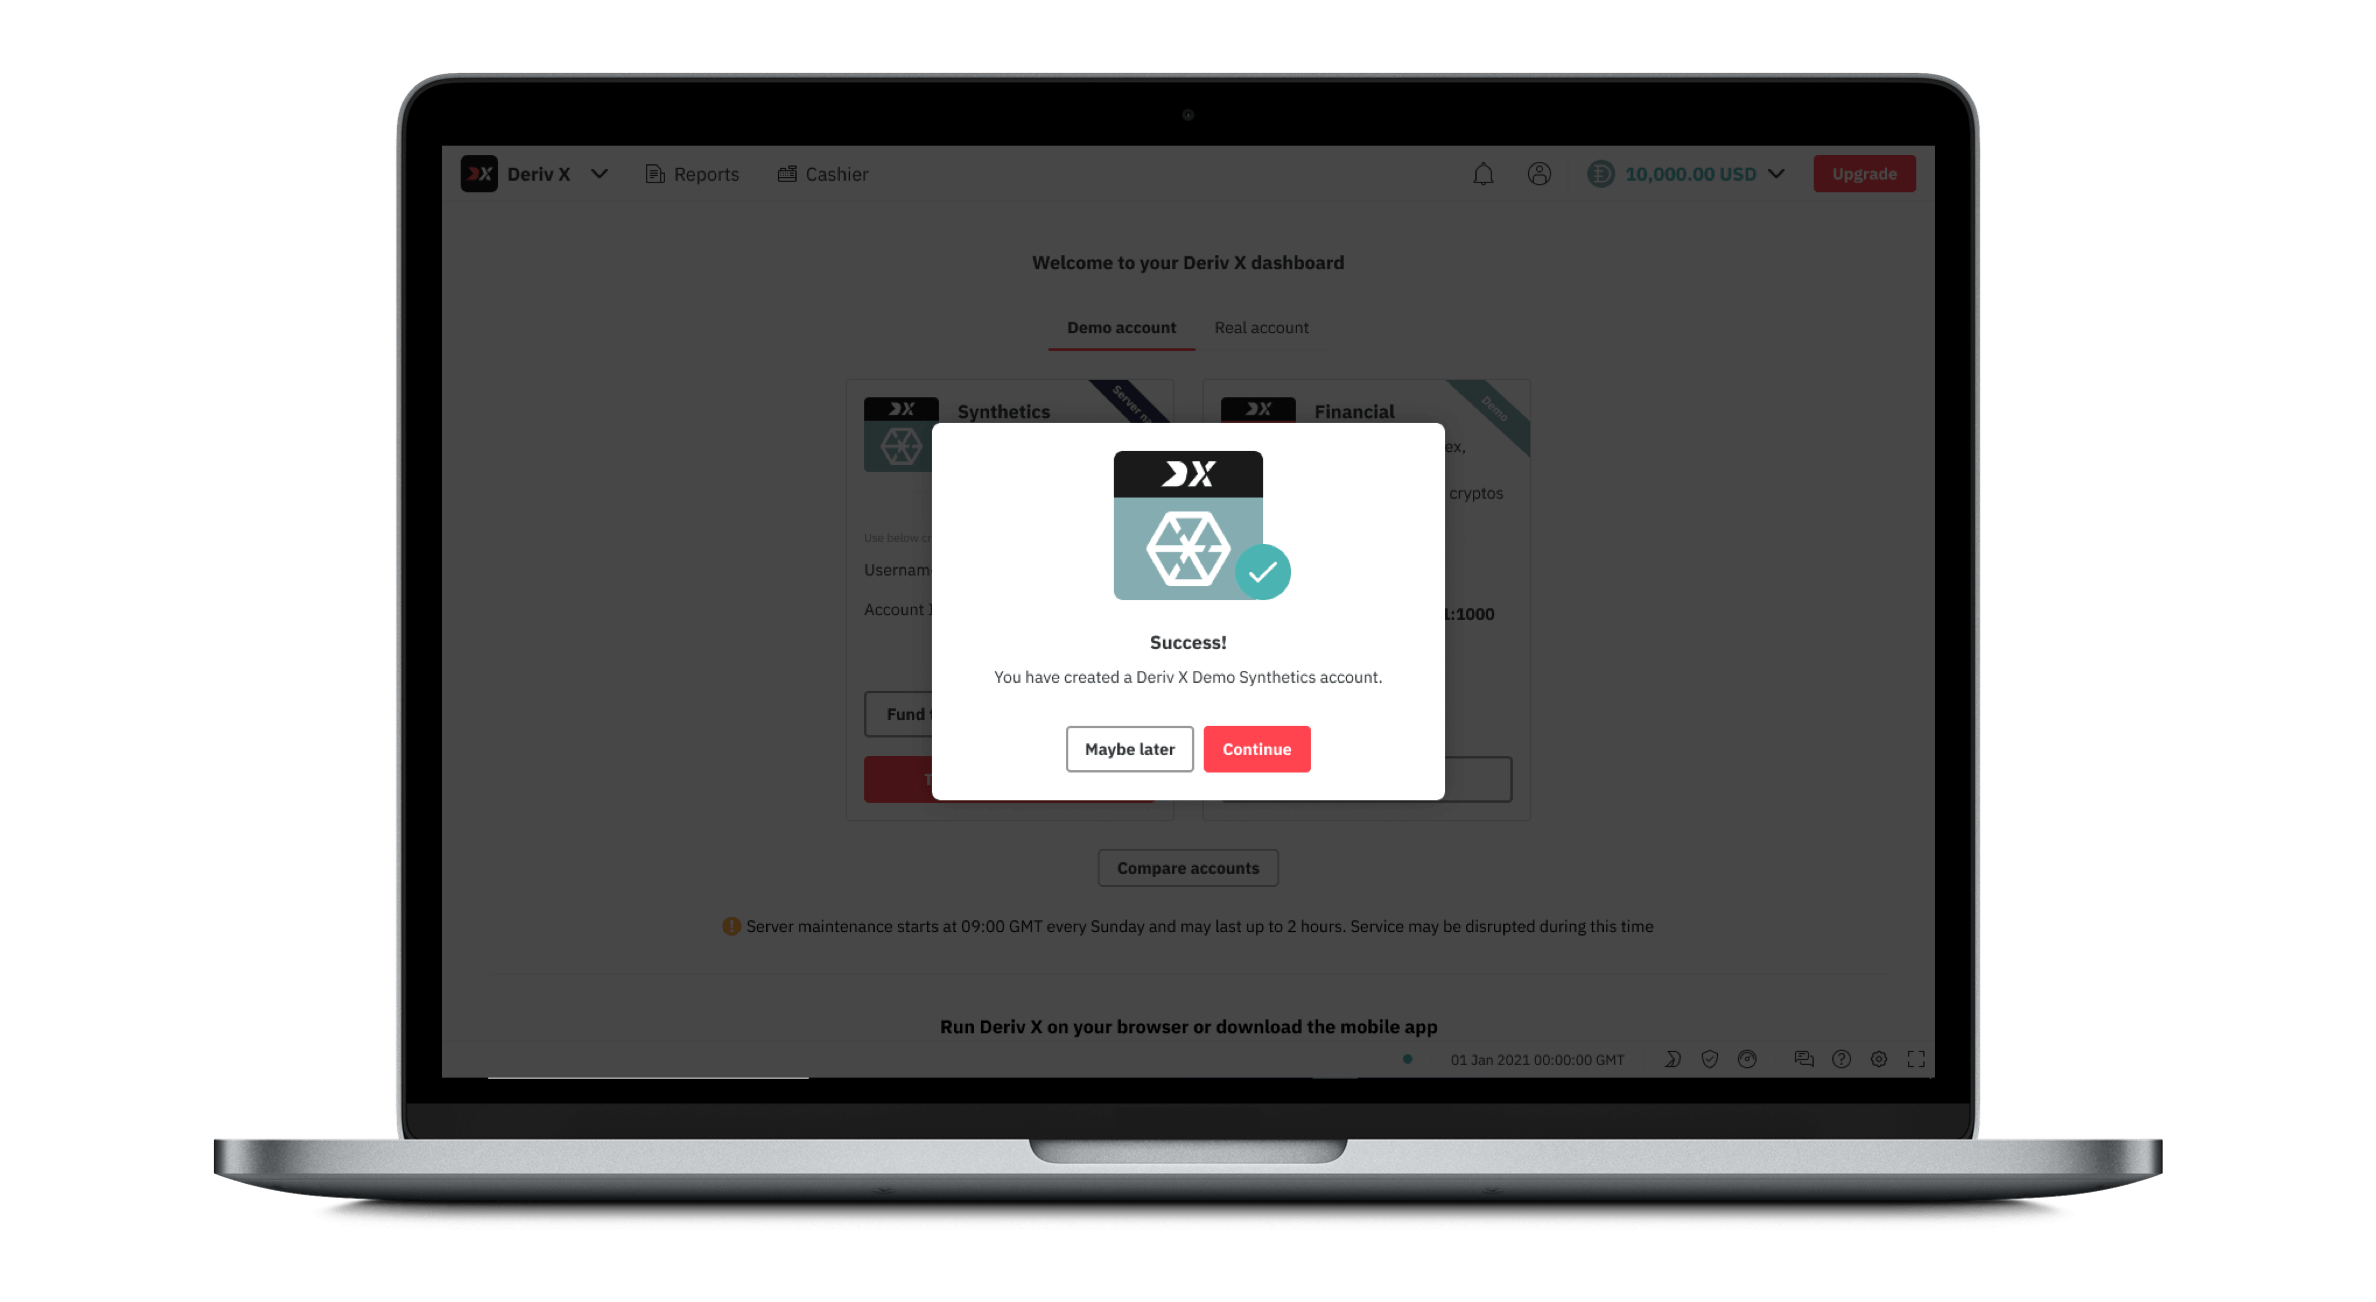
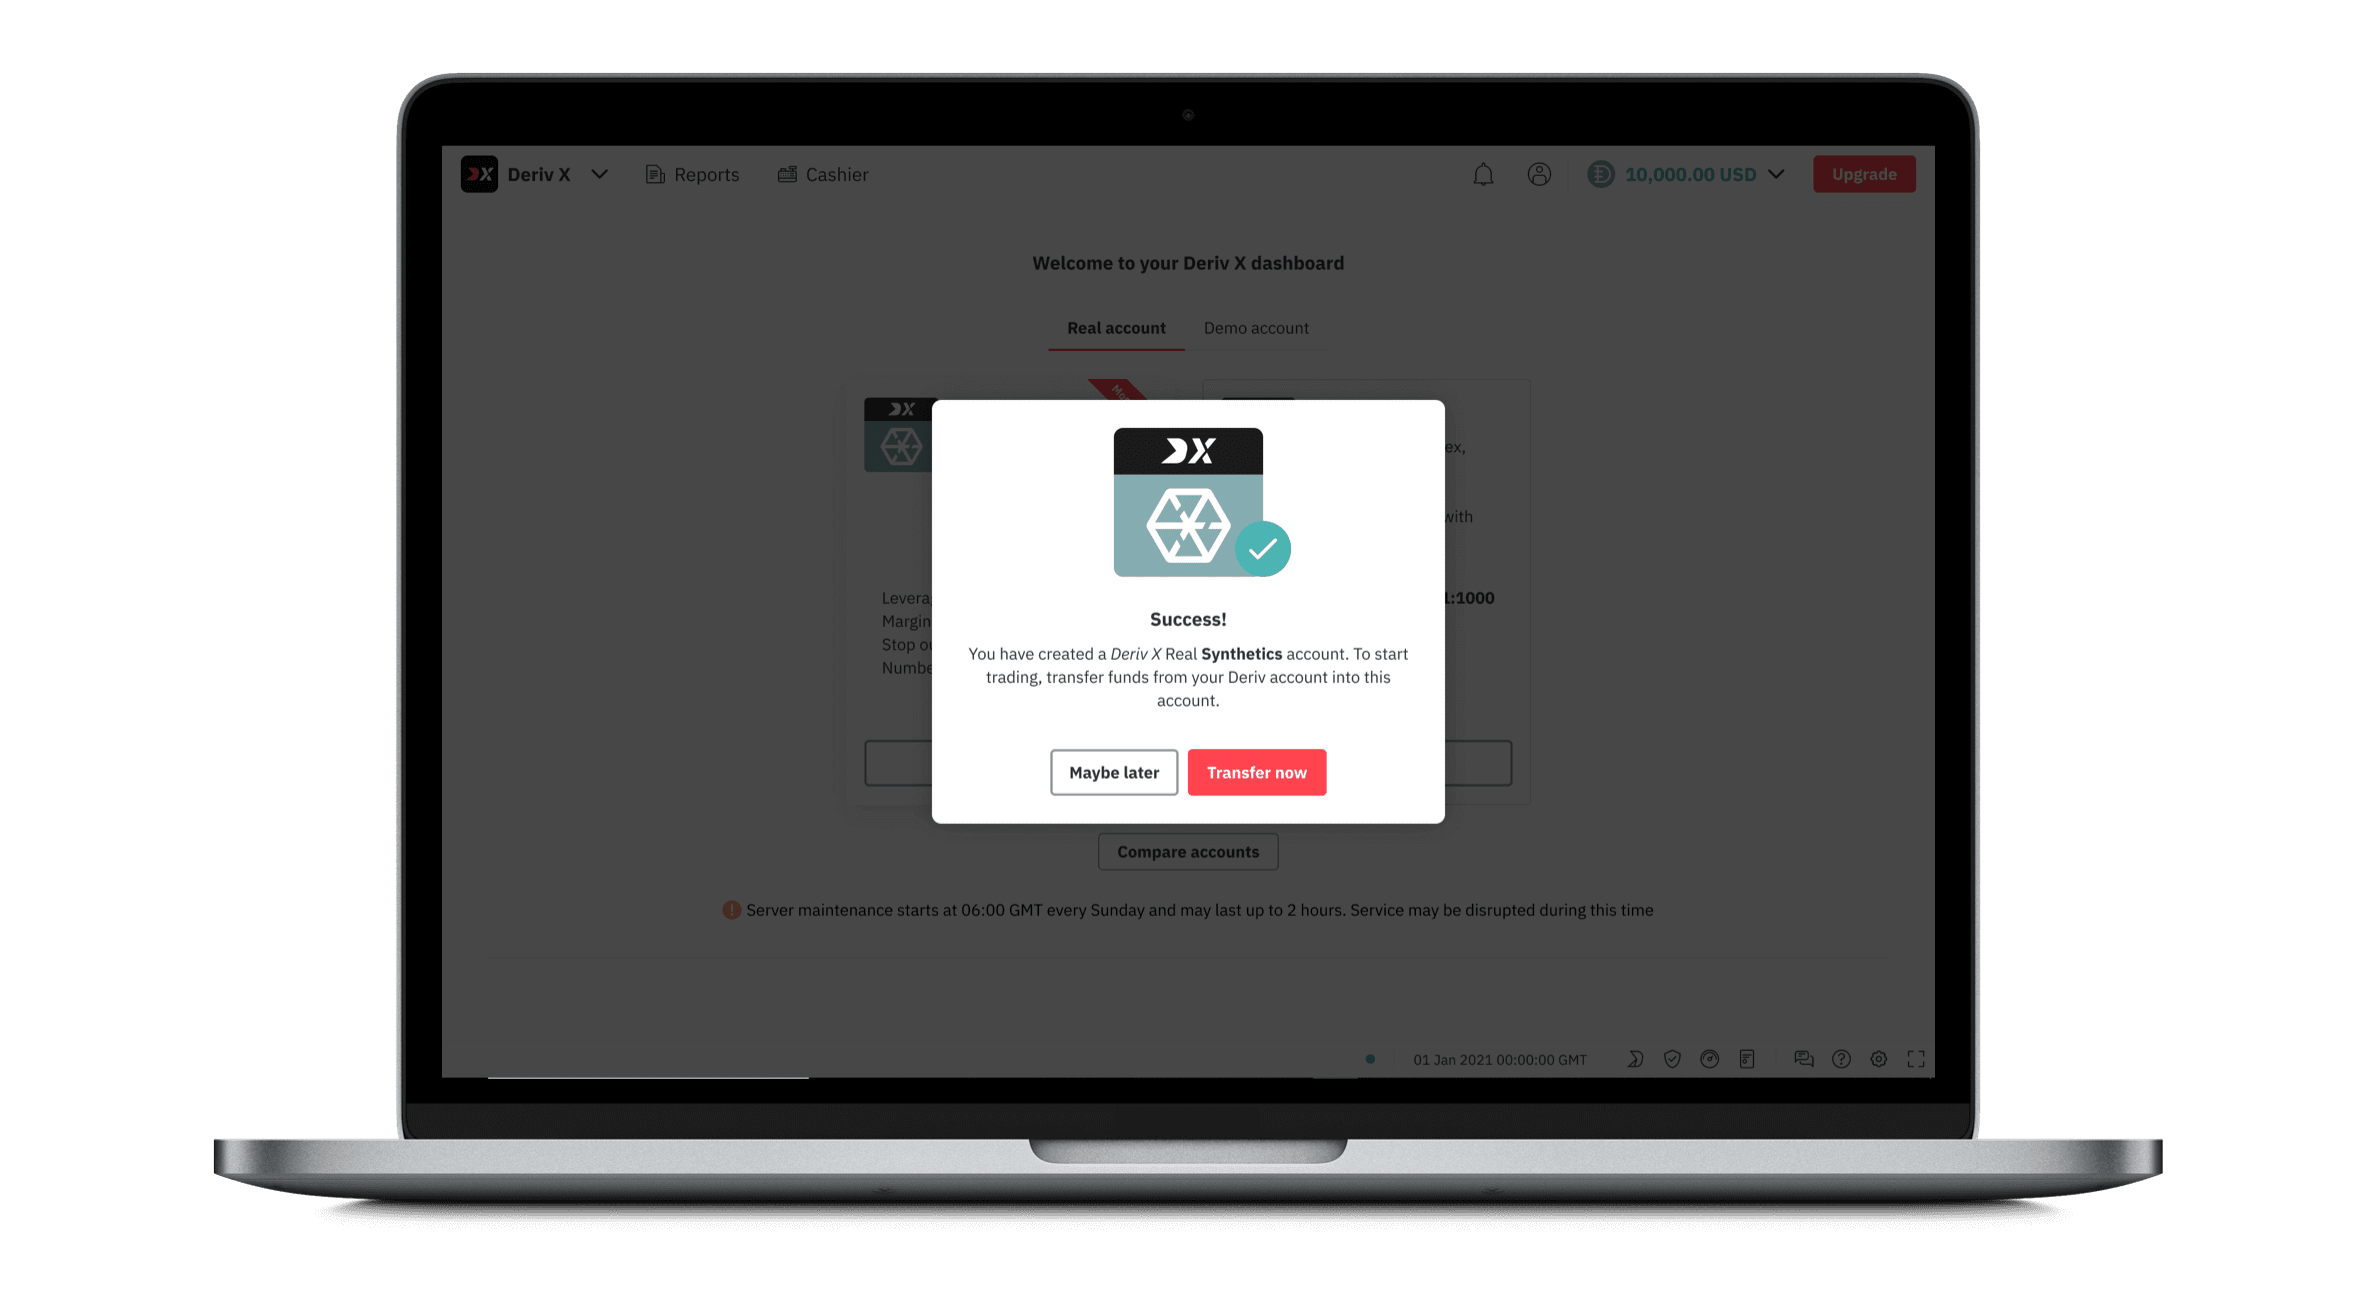
suthesh/enable-derivx (#1963)
* enable derivx real money tab & update faq

* updated screenshot

* replace image and edit faq

diff --git a/src/pages/help-centre/deriv-x.js b/src/pages/help-centre/deriv-x.js
@@ -94,7 +94,7 @@ const DerivXAccount = () => (
         <StyledHeader as="h4">{localize('How do I create a Deriv X account?')}</StyledHeader>
         <Text>
             <Localize
-                translate_text="On the <0>Deriv X dashboard</0>, select the account type you want to open (Demo) and click “Add account”. Follow the instructions on the screen to create a new Deriv X account."
+                translate_text="On the <0>Deriv X dashboard</0>, select the account type you want to open (Real or Demo) and click “Add account”. Follow the instructions on the screen to create a new Deriv X account."
                 components={[
                     <ExternalLink
                         href={derivx_app_url}
@@ -126,54 +126,54 @@ const DifferentAccounts = () => (
     </ArticleWrapper>
 )
 
-const TradingPassword = () => (
-    <ArticleWrapper>
-        <StyledHeader as="h4">{localize('What is a trading password?')}</StyledHeader>
-        <Text>
-            {localize(
-                'It is a password that gives you access to the standalone trading platforms Deriv MT5 (DMT5) and Deriv X.',
-            )}
-        </Text>
-    </ArticleWrapper>
-)
+// const TradingPassword = () => (
+//     <ArticleWrapper>
+//         <StyledHeader as="h4">{localize('What is a trading password?')}</StyledHeader>
+//         <Text>
+//             {localize(
+//                 'It is a password that gives you access to the standalone trading platforms Deriv MT5 (DMT5) and Deriv X.',
+//             )}
+//         </Text>
+//     </ArticleWrapper>
+// )
 
-const DifferentPassword = () => (
-    <ArticleWrapper>
-        <StyledHeader as="h4">
-            {localize('Why is my trading password different from my Deriv password?')}
-        </StyledHeader>
-        <Text>
-            {localize(
-                'Your trading password is linked to the standalone trading platforms Deriv MT5 (DMT5) and Deriv X, while your Deriv password gives you access to platforms hosted on our website such as DTrader and DBot.',
-            )}
-        </Text>
-    </ArticleWrapper>
-)
+// const DifferentPassword = () => (
+//     <ArticleWrapper>
+//         <StyledHeader as="h4">
+//             {localize('Why is my trading password different from my Deriv password?')}
+//         </StyledHeader>
+//         <Text>
+//             {localize(
+//                 'Your trading password is linked to the standalone trading platforms Deriv MT5 (DMT5) and Deriv X, while your Deriv password gives you access to platforms hosted on our website such as DTrader and DBot.',
+//             )}
+//         </Text>
+//     </ArticleWrapper>
+// )
 
-const ResetDerivXPassowrd = () => (
-    <ArticleWrapper>
-        <StyledHeader as="h4">{localize('How do I reset my Deriv X Password?')}</StyledHeader>
-        <Text>
-            <Localize
-                translate_text="Go to your <0>Account settings</0>. Under “Security and safety”, select “Passwords”. You can reset your Deriv X password under “Trading password”."
-                components={[
-                    <ExternalLink
-                        href={`${deriv_app_url}/account/personal-details`}
-                        target="_blank"
-                        rel="noopener noreferrer"
-                        key={0}
-                    />,
-                ]}
-                deriv_x_app_url
-            />
-        </Text>
-        <StyledText>
-            {localize(
-                'Note: Remember that your trading password is also linked to your Deriv MT5 (DMT5) account.',
-            )}
-        </StyledText>
-    </ArticleWrapper>
-)
+// const ResetDerivXPassowrd = () => (
+//     <ArticleWrapper>
+//         <StyledHeader as="h4">{localize('How do I reset my Deriv X Password?')}</StyledHeader>
+//         <Text>
+//             <Localize
+//                 translate_text="Go to your <0>Account settings</0>. Under “Security and safety”, select “Passwords”. You can reset your Deriv X password under “Trading password”."
+//                 components={[
+//                     <ExternalLink
+//                         href={`${deriv_app_url}/account/personal-details`}
+//                         target="_blank"
+//                         rel="noopener noreferrer"
+//                         key={0}
+//                     />,
+//                 ]}
+//                 deriv_x_app_url
+//             />
+//         </Text>
+//         <StyledText>
+//             {localize(
+//                 'Note: Remember that your trading password is also linked to your Deriv MT5 (DMT5) account.',
+//             )}
+//         </StyledText>
+//     </ArticleWrapper>
+// )
 
 const AccountInformation = () => (
     <ArticleWrapper>
@@ -298,7 +298,7 @@ const DerivXArticle = () => {
                     label="differences-of-synthetic-and-financial"
                     is_mounted={is_mounted}
                 />
-                <TradingPassword
+                {/* <TradingPassword
                     text={localize('What is a trading password?')}
                     label="trading-password"
                     is_mounted={is_mounted}
@@ -312,7 +312,7 @@ const DerivXArticle = () => {
                     text={localize('How do I reset my Deriv X password?')}
                     label="reset-deriv-x-password"
                     is_mounted={is_mounted}
-                />
+                /> */}
                 <AccountInformation
                     text={localize('Where can I find my Deriv X account information?')}
                     label="deriv-x-account-information"

diff --git a/src/pages/help-centre/_help-articles.js b/src/pages/help-centre/_help-articles.js
@@ -291,26 +291,26 @@ export const articles = [
                 sub_category: <Localize translate_text="Platforms" />,
                 label: 'differences-of-synthetic-and-financial',
             },
-            {
-                title: <Localize translate_text="What is a trading password?" />,
-                category: 'Deriv X',
-                sub_category: <Localize translate_text="Platforms" />,
-                label: 'trading-password',
-            },
-            {
-                title: (
-                    <Localize translate_text="Why is my trading password different from my Deriv password?" />
-                ),
-                category: 'Deriv X',
-                sub_category: <Localize translate_text="Platforms" />,
-                label: 'differences-of-trading-and-deriv-password',
-            },
-            {
-                title: <Localize translate_text="How do I reset my Deriv X password?" />,
-                category: 'Deriv X',
-                sub_category: <Localize translate_text="Platforms" />,
-                label: 'reset-deriv-x-password',
-            },
+            // {
+            //     title: <Localize translate_text="What is a trading password?" />,
+            //     category: 'Deriv X',
+            //     sub_category: <Localize translate_text="Platforms" />,
+            //     label: 'trading-password',
+            // },
+            // {
+            //     title: (
+            //         <Localize translate_text="Why is my trading password different from my Deriv password?" />
+            //     ),
+            //     category: 'Deriv X',
+            //     sub_category: <Localize translate_text="Platforms" />,
+            //     label: 'differences-of-trading-and-deriv-password',
+            // },
+            // {
+            //     title: <Localize translate_text="How do I reset my Deriv X password?" />,
+            //     category: 'Deriv X',
+            //     sub_category: <Localize translate_text="Platforms" />,
+            //     label: 'reset-deriv-x-password',
+            // },
             {
                 title: (
                     <Localize translate_text="Where can I find my Deriv X account information?" />

diff --git a/src/pages/derivx/_start-derivx.js b/src/pages/derivx/_start-derivx.js
@@ -229,8 +229,7 @@ const StartDerivX = () => {
                         {localize('Demo account')}
                     </StyledText>
                 </TabItem>
-                {/* TODO: Enable once real money account is available */}
-                {/* <TabItem
+                <TabItem
                     mobile_padding="12px 24px"
                     active={tab === 'real'}
                     onClick={() => onTabClick('real')}
@@ -238,7 +237,7 @@ const StartDerivX = () => {
                     <StyledText size="var(--text-size-m)" align="center">
                         {localize('Real money account')}
                     </StyledText>
-                </TabItem> */}
+                </TabItem>
             </Flex>
 
             <Flex max_width="1200px">
